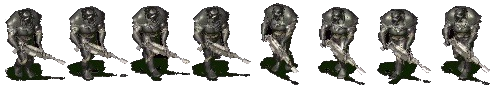
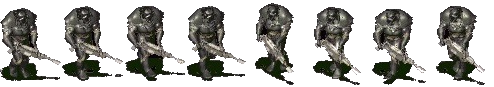
updated sprites

diff --git a/static/test.html b/static/test.html
@@ -30,16 +30,16 @@
         var stage = new createjs.Stage("demoCanvas");
         var data = new createjs.SpriteSheet({
             "images": [
-                "../media/enclave_power_armor_right.jpg",
-                '../media/enclave_power_armor_left.jpg',
-                '../media/enclave_power_armor_bottom.jpg',
-                '../media/enclave_power_armor_top.jpg',
+                "../media/equipment/enclave_power_armor/flamethrower/walk/right.png",
+                '../media/equipment/enclave_power_armor/flamethrower/walk/left.png',
+                '../media/equipment/enclave_power_armor/flamethrower/walk/bottom.png',
+                '../media/equipment/enclave_power_armor/flamethrower/walk/top.png',
             ],
             "frames": {
                 // 429 x 77
-                "height": 77,
+                "height": 87,
                 "count": 32,
-                "width": 53.51,
+                "width": 61.75,
             },
             "animations": {
                 "right": {
@@ -62,7 +62,7 @@
         });
         window.character = new createjs.Sprite(data);
         // character.direction = 90;
-        character.gotoAndPlay("top");
+        character.gotoAndPlay("left");
         stage.addChild(character);
         createjs.Ticker.useRAF = true;
         createjs.Ticker.timingMode = createjs.Ticker.RAF_SYNCHED;

diff --git a/models/sprite.py b/models/sprite.py
@@ -225,32 +225,32 @@ sprite_proto.register_object(
             'direction': DirectionType.LEFT,
             'action': ActionType.IDLE,
             'armor': ArmorType.ENCLAVE_POWER_ARMOR,
-            'weapon': WeaponType.NO_WEAPON,
-            'count': 12,
+            'weapon': WeaponType.FLAMETHROWER,
+            'count': 10,
             'speed': 0.5
         },
         {
             'direction': DirectionType.RIGHT,
             'action': ActionType.IDLE,
             'armor': ArmorType.ENCLAVE_POWER_ARMOR,
-            'weapon': WeaponType.NO_WEAPON,
-            'count': 12,
+            'weapon': WeaponType.FLAMETHROWER,
+            'count': 10,
             'speed': 0.5
         },
         {
             'direction': DirectionType.TOP,
             'action': ActionType.IDLE,
             'armor': ArmorType.ENCLAVE_POWER_ARMOR,
-            'weapon': WeaponType.NO_WEAPON,
-            'count': 12,
+            'weapon': WeaponType.FLAMETHROWER,
+            'count': 10,
             'speed': 0.5
         },
         {
             'direction': DirectionType.BOTTOM,
             'action': ActionType.IDLE,
             'armor': ArmorType.ENCLAVE_POWER_ARMOR,
-            'weapon': WeaponType.NO_WEAPON,
-            'count': 12,
+            'weapon': WeaponType.FLAMETHROWER,
+            'count': 10,
             'speed': 0.5
         }
 
